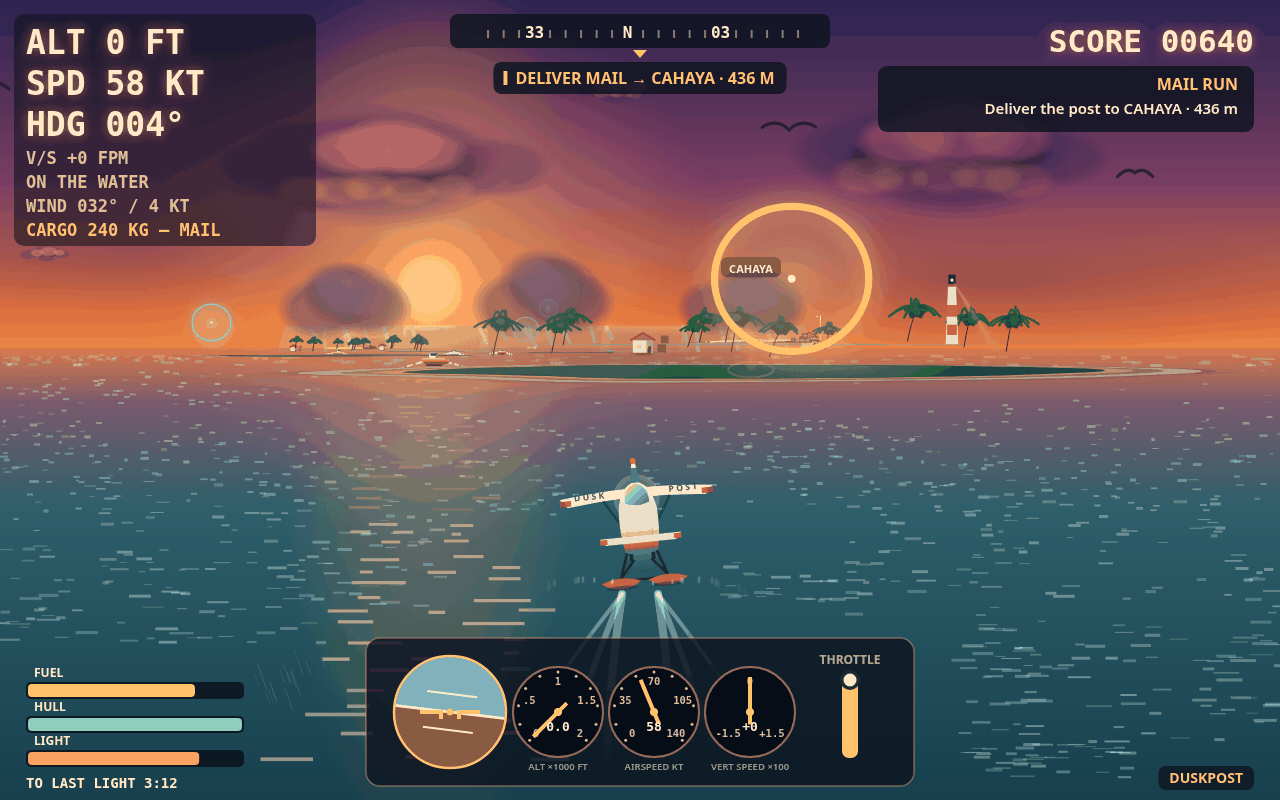
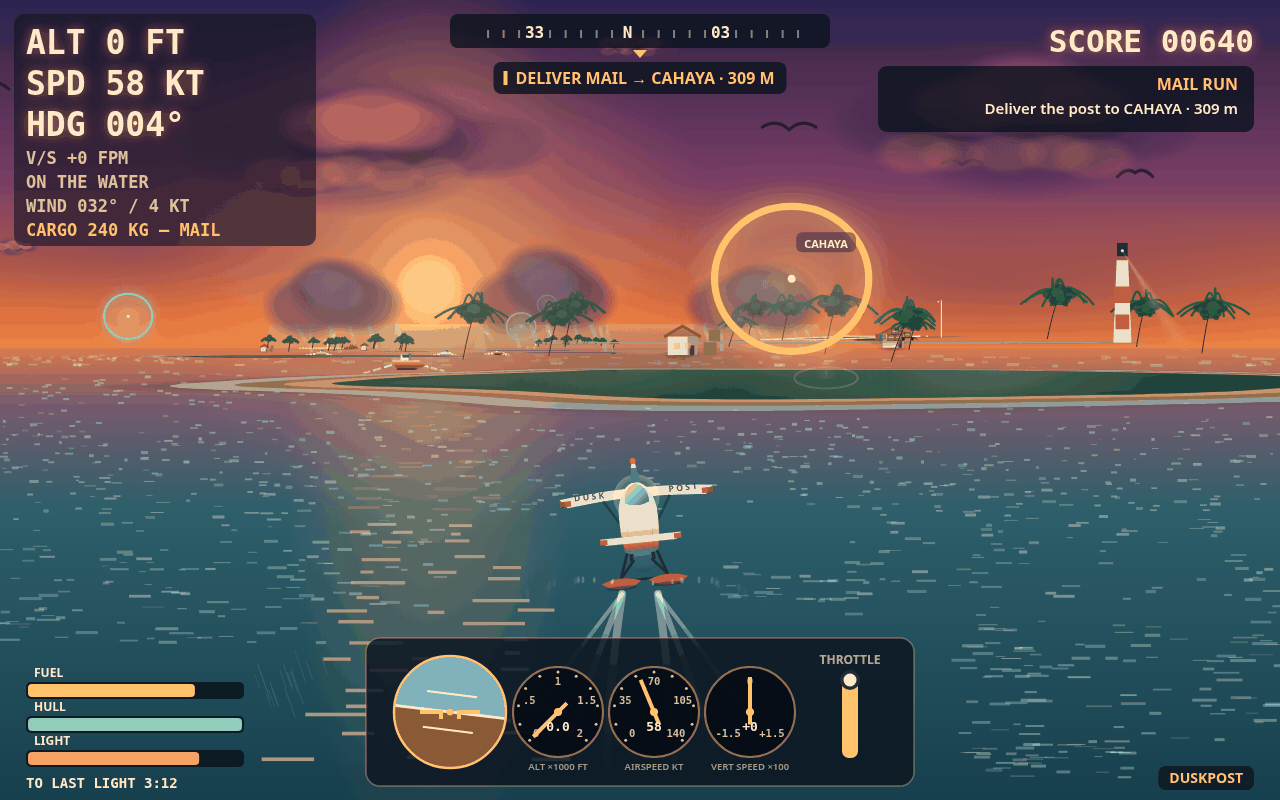
V44: the destination is an island now, not a line (COVER-CLOSE)

diff --git a/game/src/shots.js b/game/src/shots.js
@@ -226,8 +226,14 @@ export function stageShot(name, seed) {
     // cruise cover flew over), so the sky keeps the hero clouds and
     // the squall bank — only the plane's state and the ring change.
     const isl = world.islands[3]; // CAHAYA
+    // V44 COVER-CLOSE: staged 130 m closer (was isl.z - 430) so
+    // Cahaya reads as a destination landmass — beach, palms, house,
+    // lighthouse, strip — instead of a thin dark ribbon at judge
+    // size. Probe-proven (work/v44/crops/probe-cover-300.png):
+    // sun disc, ring, plane, glitter path and HUD all survive;
+    // the HUD distance reads an honest 309 m. Gameplay untouched.
     plane.x = isl.x - 74;
-    plane.z = isl.z - 430;
+    plane.z = isl.z - 300;
     plane.y = 0;
     plane.hdg = 0.07;
     plane.speed = 30;
